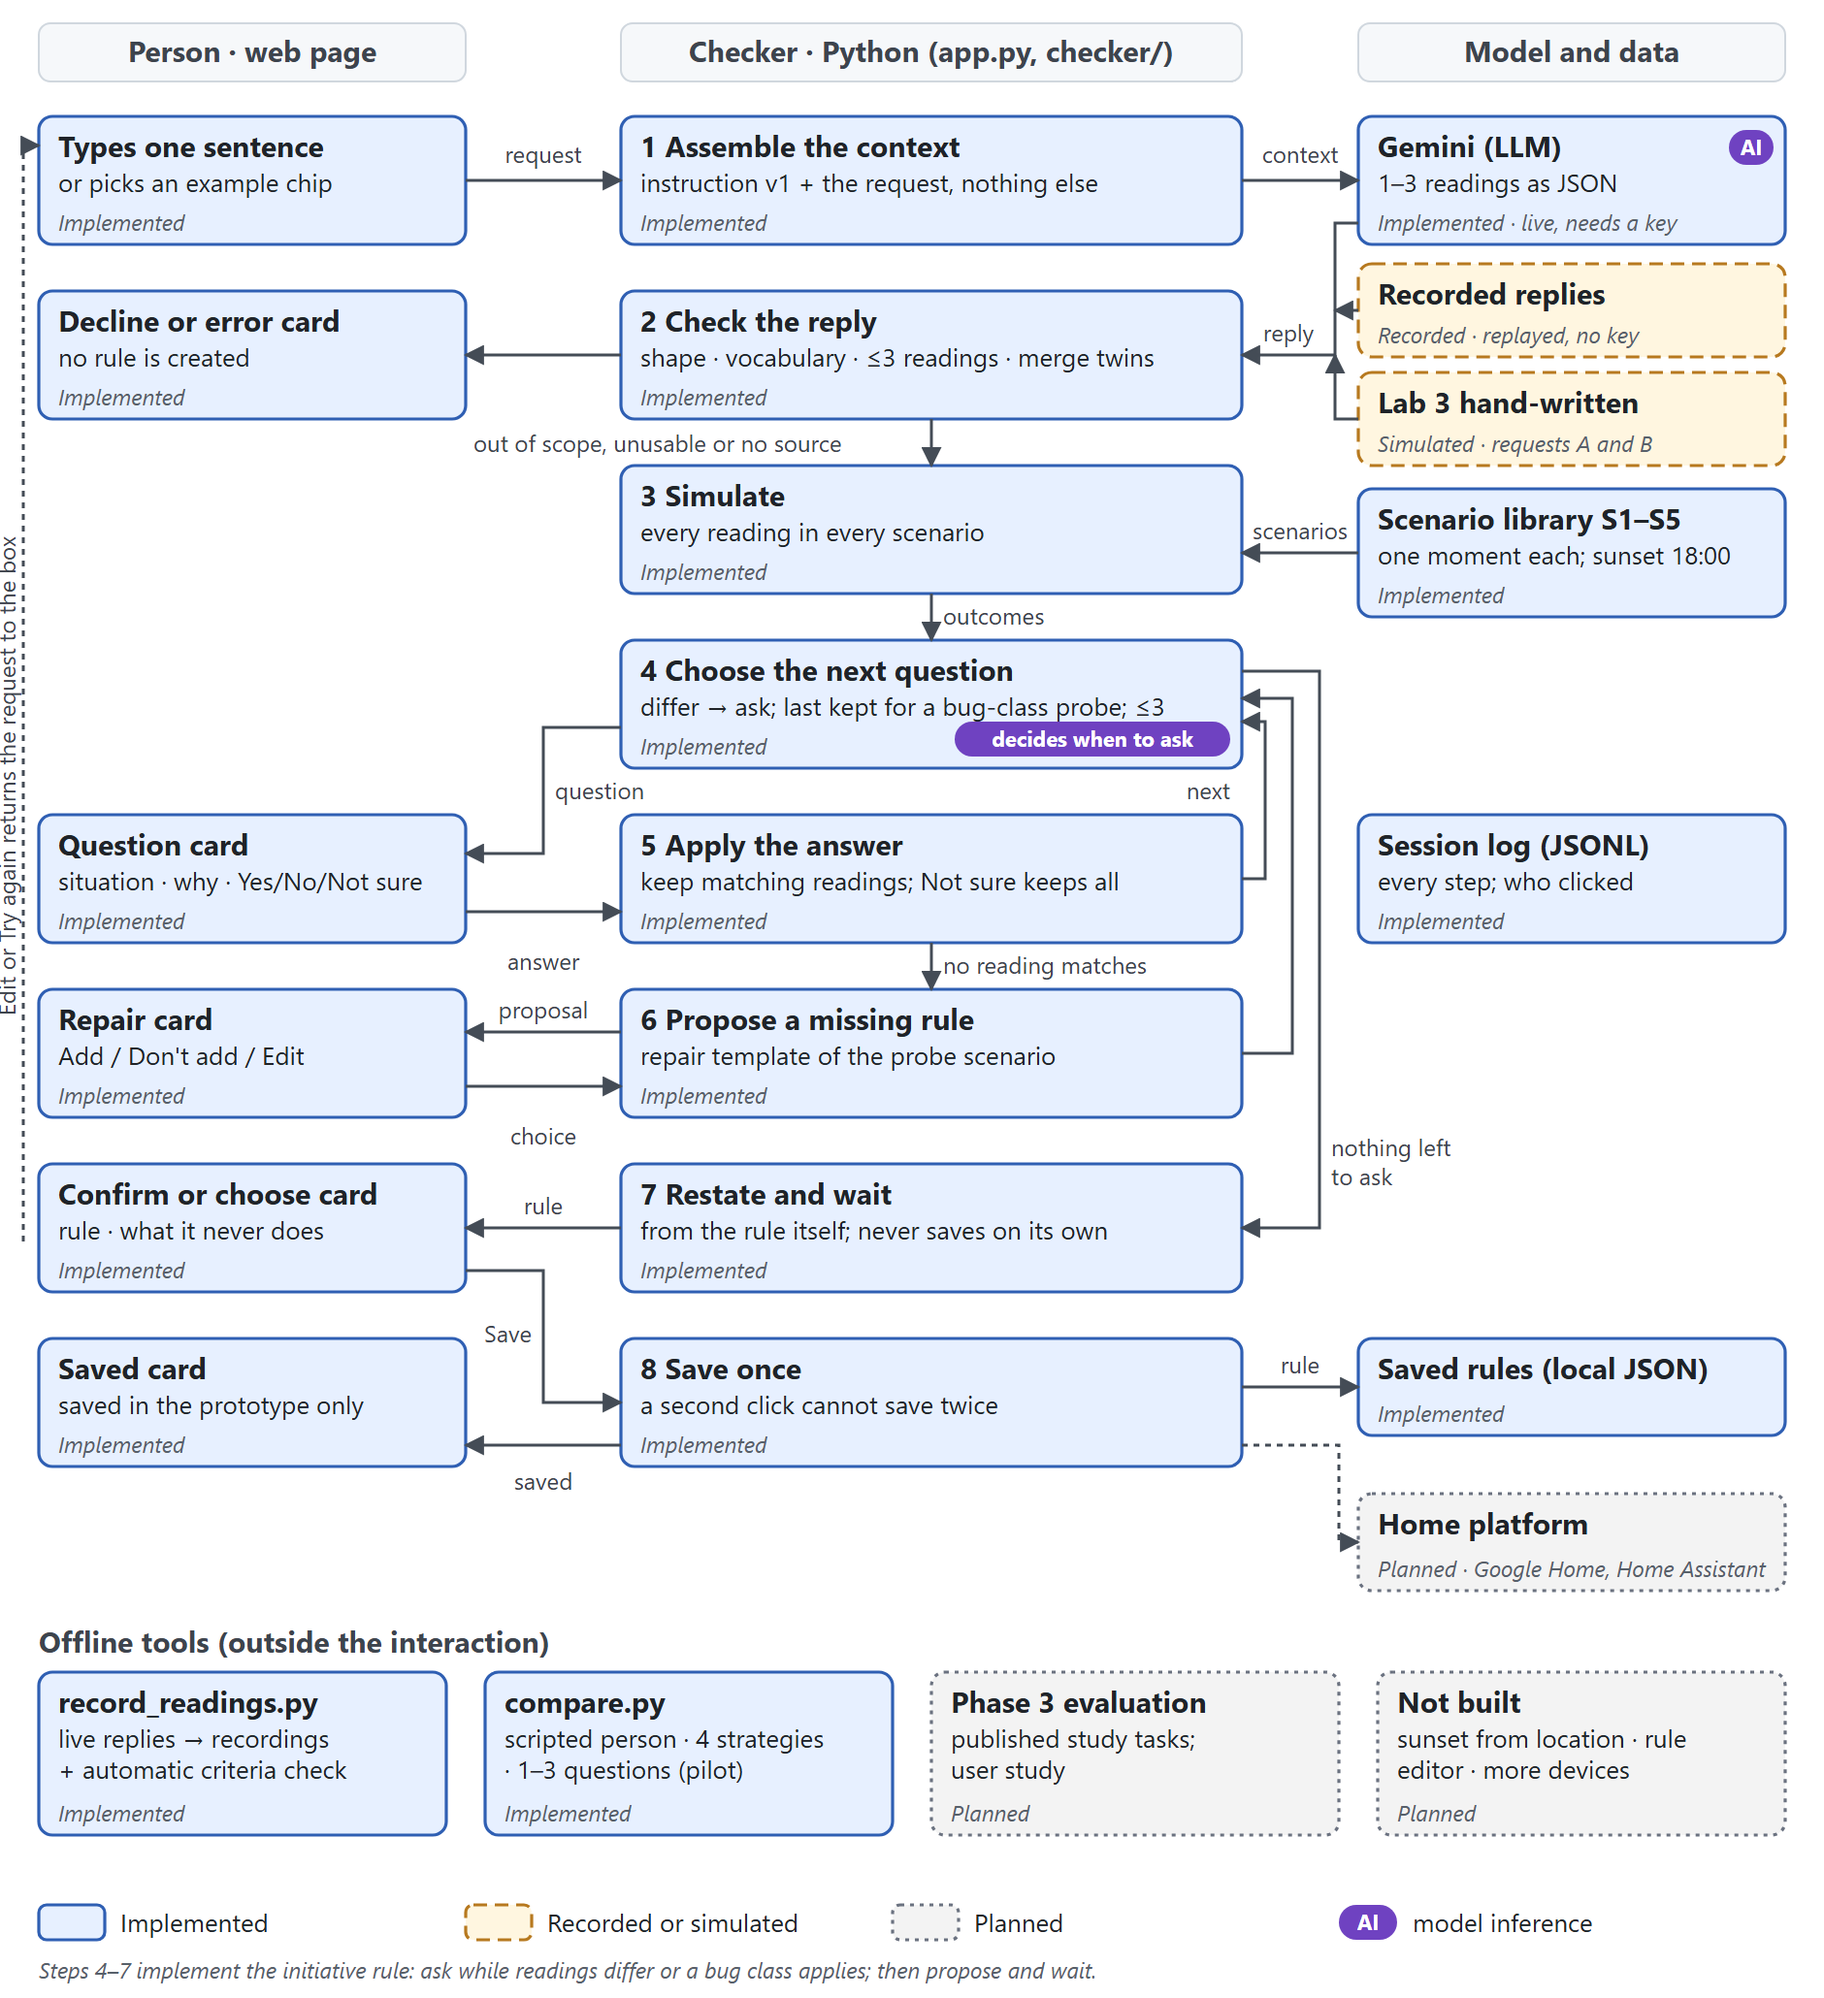
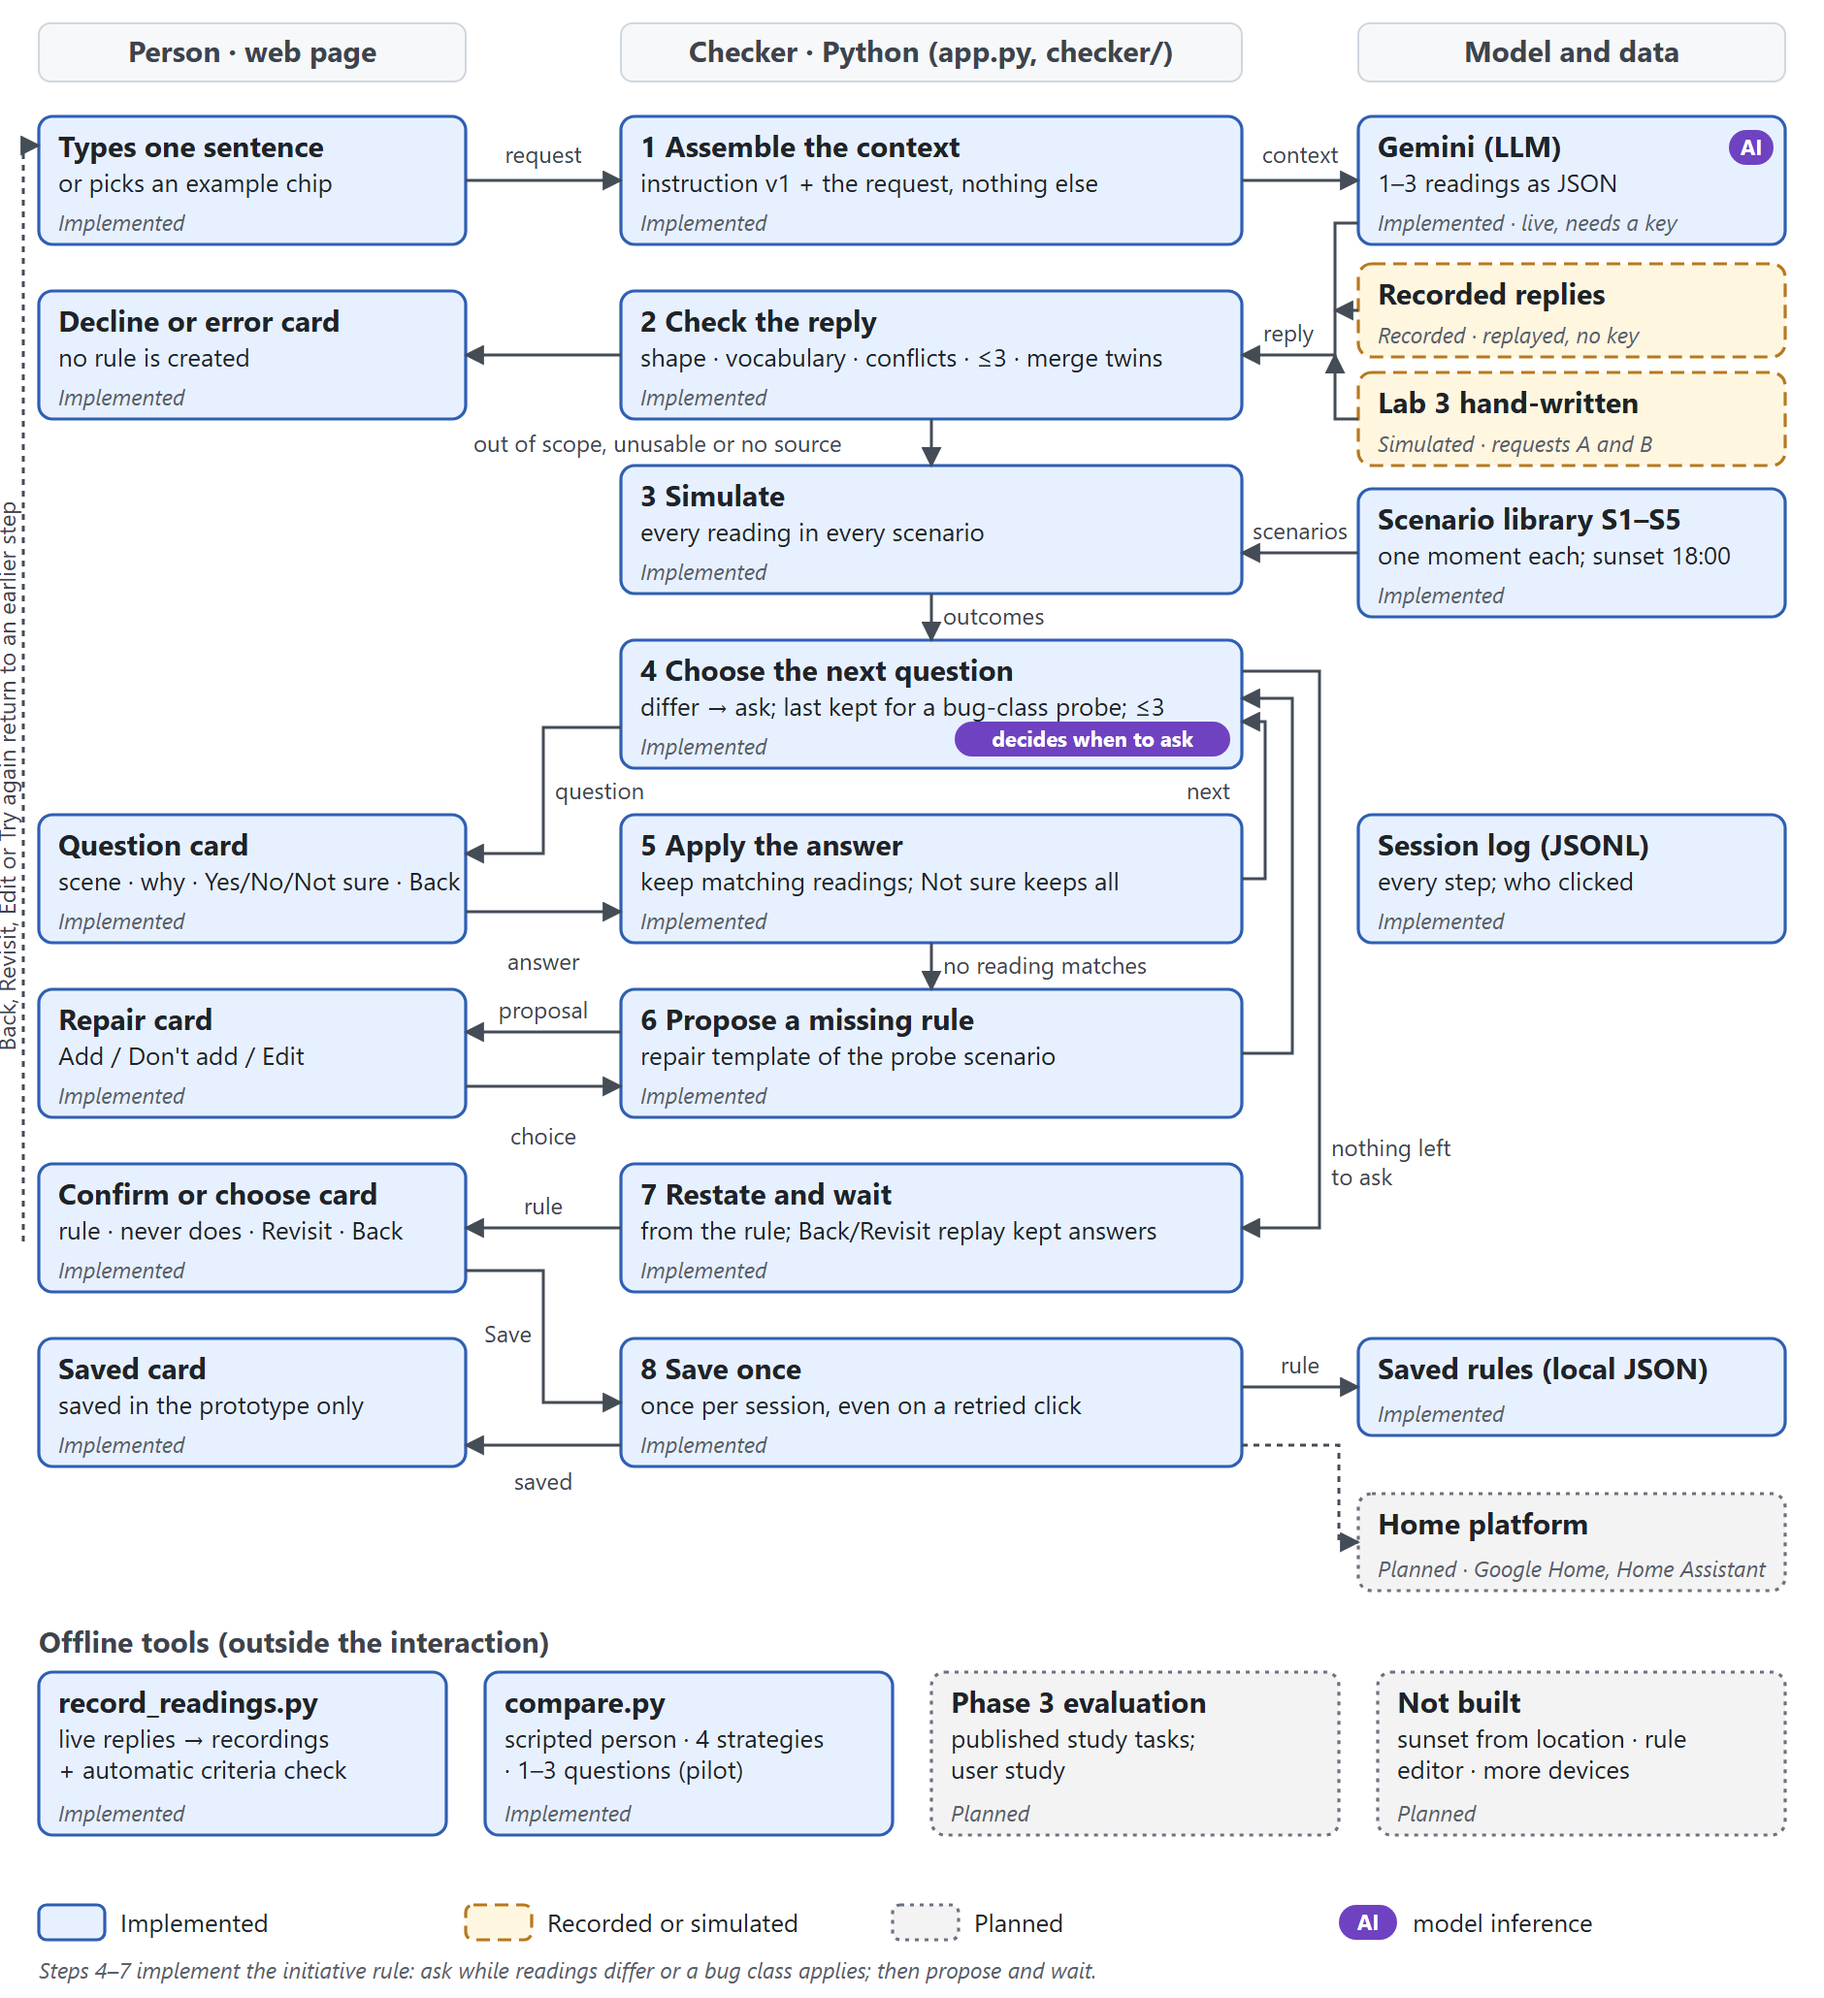
Update the diagram and README for the student's changes
- System diagram: Back and Revisit on the question and review cards,
  the conflict check in step 2, replay of kept answers in step 7, one
  save per session in step 8, and "Back, Revisit, Edit or Try again
  return to an earlier step" on the return path.
- README: status rows for the new flow and for Back and Revisit, 46
  tests, a development-record row for commit 96b8933 and the
  recaptured figures, and a statement that 96b8933 was written by me by
  hand, without AI tools, and reviewed and committed by Claude Code.

diff --git a/tools/make_diagram.py b/tools/make_diagram.py
@@ -58,21 +58,21 @@ def build():
     # Person column
     box(P, 60, 66, "Types one sentence", "or picks an example chip")
     box(P, 150, 66, "Decline or error card", "no rule is created")
-    box(P, 420, 66, "Question card", "situation · why · Yes/No/Not sure")
+    box(P, 420, 66, "Question card", "scene · why · Yes/No/Not sure · Back")
     box(P, 510, 66, "Repair card", "Add / Don't add / Edit")
-    box(P, 600, 66, "Confirm or choose card", "rule · what it never does")
+    box(P, 600, 66, "Confirm or choose card", "rule · never does · Revisit · Back")
     box(P, 690, 66, "Saved card", "saved in the prototype only")
 
     # Checker column
     box(C, 60, 66, "1  Assemble the context", "instruction v1 + the request, nothing else")
-    box(C, 150, 66, "2  Check the reply", "shape · vocabulary · ≤3 readings · merge twins")
+    box(C, 150, 66, "2  Check the reply", "shape · vocabulary · conflicts · ≤3 · merge twins")
     box(C, 240, 66, "3  Simulate", "every reading in every scenario")
     box(C, 330, 66, "4  Choose the next question", "differ → ask; last kept for a bug-class probe; ≤3",
         badge="decides when to ask")
     box(C, 420, 66, "5  Apply the answer", "keep matching readings; Not sure keeps all")
     box(C, 510, 66, "6  Propose a missing rule", "repair template of the probe scenario")
-    box(C, 600, 66, "7  Restate and wait", "from the rule itself; never saves on its own")
-    box(C, 690, 66, "8  Save once", "a second click cannot save twice")
+    box(C, 600, 66, "7  Restate and wait", "from the rule; Back/Revisit replay kept answers")
+    box(C, 690, 66, "8  Save once", "once per session, even on a retried click")
 
     # Model and data column
     box(D, 60, 66, "Gemini (LLM)", "1–3 readings as JSON", note="Implemented · live, needs a key", badge="AI")
@@ -117,7 +117,7 @@ def build():
     arrow([(cr, 745), (dl - 10, 745), (dl - 10, 795), (dl, 795)], dotted=True)
     arrow([(12, 640), (12, 75), (20, 75)], dotted=True)
     out.append('<text class="lab" x="8" y="400" transform="rotate(-90 8 400)" text-anchor="middle">'
-               'Edit or Try again returns the request to the box</text>')
+               'Back, Revisit, Edit or Try again return to an earlier step</text>')
 
     # Offline tools
     text(20, 852, "Offline tools (outside the interaction)", "h")

diff --git a/README.md b/README.md
@@ -1,6 +1,6 @@
 # Pre-save timing check for one-sentence home automations
 
-*README prose: 1047 words (code, commands and file names not counted).*
+*README prose: 1189 words (code, commands and file names not counted).*
 Intelligent Interactive Systems, Assignment 2 (project Phase 2) · student 3189041 · submitted release `v1.0-a2`.
 
 A person types one sentence, such as "Turn on the hallway light when I'm home after dark". Before saving, the
@@ -14,8 +14,9 @@ including what it never does. Nothing is saved without Save.
 
 | Part | Status |
 |---|---|
-| Web page: request, question, repair, confirm or choose, decline, error and saved cards | Implemented |
-| Checker: reply checks, simulator, question choice (at most three), repair templates, restatement, log | Implemented, 34 tests |
+| Web page: Describe / Check / Save flow; question, repair, review, decline, error and saved cards | Implemented |
+| Back and Revisit: return to an earlier step or reopen an answer, with later answers kept and replayed | Implemented |
+| Checker: reply and conflict checks, simulator, question choice (at most three), repairs, restatement, log | Implemented, 46 tests |
 | Gemini readings, live with your own key | Implemented |
 | Gemini replies to the seven example requests, replayed without a key | Recorded 2 Nov 2026 (`gemini-3.5-flash`) |
 | Lab 3 hand-written readings for requests A and B | Simulated; a fallback only |
@@ -64,6 +65,8 @@ Each commit message says what changed, why, and how it was checked.
 | Recordings | `gemini-3.5-flash`, as older models are closed to new users; prompt v1 kept. | Six criteria, `docs/prompt_log.md` | [`86120dd`](https://github.com/TINGHUI-HUANG/presave-timing-check/commit/86120dd) [`ac33ade`](https://github.com/TINGHUI-HUANG/presave-timing-check/commit/ac33ade) |
 | Probe fix | `compare.py` (the comparison A1 planned, as a pilot) showed probes wasted on conditions another rule covered; in E the missing "off" was never asked. Probes now apply only where the whole reading does nothing. | Exposed 8/9 → 9/9 deviations, correct rules 4/5 → 5/5, questions 13 → 10 | [`687dfbf`](https://github.com/TINGHUI-HUANG/presave-timing-check/commit/687dfbf) [`b191477`](https://github.com/TINGHUI-HUANG/presave-timing-check/commit/b191477) |
 | Figures | Diagram and storyboards from code and real screens. Frames showed Yes and Save pre-focused (a default answer) and a decline claiming rules were drafted; both fixed. | Every frame looked at | [`f6f5197`](https://github.com/TINGHUI-HUANG/presave-timing-check/commit/f6f5197) [`b3819c3`](https://github.com/TINGHUI-HUANG/presave-timing-check/commit/b3819c3) |
+| My changes | I added Back and Revisit (later answers kept and replayed), rejection of rules that switch the light on and off at once, merging only of fully equivalent readings, retry-safe actions with session recovery, and a new Describe / Check / Save interface with an illustrated scene for each question. | 12 new tests; all 46 pass | [`96b8933`](https://github.com/TINGHUI-HUANG/presave-timing-check/commit/96b8933) |
+| Figures again | Storyboards recaptured for the new interface; storyboard 2 now shows Back. | Every frame looked at | [`fa6ba31`](https://github.com/TINGHUI-HUANG/presave-timing-check/commit/fa6ba31) |
 
 ## AI assistance
 
@@ -85,6 +88,9 @@ What I decided or checked myself:
   tracks; Claude checked that no commit contained it, and I restored the template and created `.env`. Claude never
   wrote the key into a file or command.
 - I chose my GitHub name and Gmail address for the commits instead of the QQ address in my Git settings.
+- I wrote commit `96b8933` by hand, without AI tools: Back and Revisit, the conflict check, stricter merging,
+  retry-safe actions and session recovery, the new interface and 12 tests. Claude Code reviewed it, ran the 46
+  tests and the comparison (results unchanged), recaptured the storyboards and committed it at my request.
 - I ran the prototype myself on 2 Nov 2026 (sessions marked `browser`). For A, I said Yes to the light coming on
   at 18:00 when I had been home since 17:00, although my sentence only mentions arriving; I added the proposed
   sunset rule before saving. My door-lock request was declined twice with no rule created. For C, I added both
